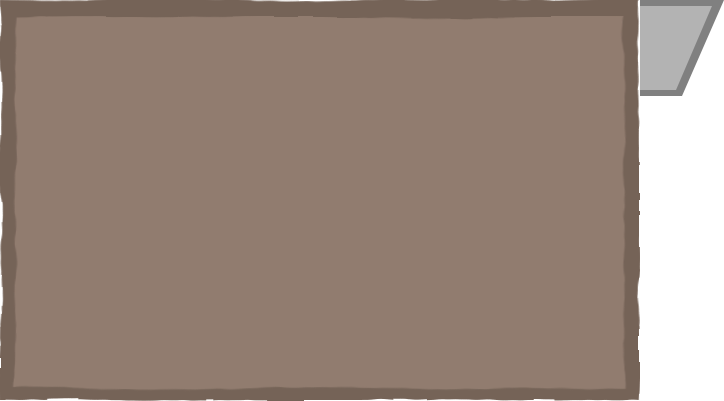
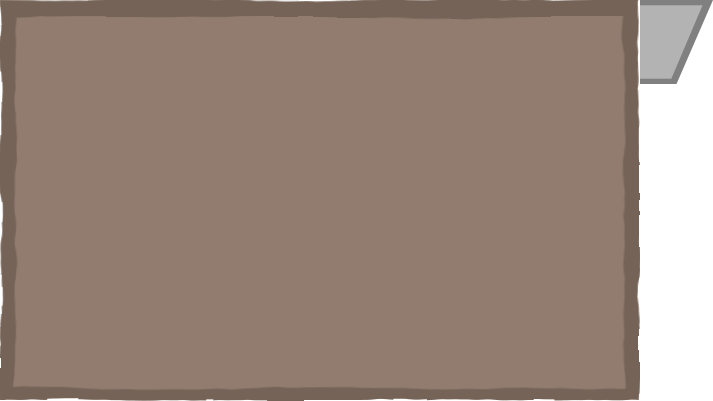
Put the tower background into a component which replaces info text box
This is a general use ui component that is a background for information
on the ui. It can be stretched horozontally, but not vertically. This is
to ensure the angle of the slope does not change.

diff --git a/client/js/components/game/towerMenu.js b/client/js/components/game/towerMenu.js
@@ -1,4 +1,4 @@
-import { BaseToolbarComponent } from "./base/baseToolbarComponent.js"
+import { UIComponentBackground1 } from "../ui_common/uiComponentBackground1.js"
 import { getPositionWithinEquallySpacedObjects } from "../../tools.js"
 import { getUserID } from "../../state.js"
 import { BaseComponent } from "./base/baseComponent.js"
@@ -21,25 +21,8 @@ export class TowerMenu extends BaseComponent {
         this.x_menu = x_menu
         this.y_menu = y_menu //- 15 - 70
 
-        let baseTexture = PIXI.Loader.shared.resources["client/assets/infoBoxes/infoBoxes.json"].textures["slanted_infobox_greyscale_1.png"]
-        let infoTextBox = new PIXI.NineSlicePlane(baseTexture, 1, 0, 64, 0)
-        infoTextBox.width = this.width_menu_px - 500
-        infoTextBox.height = this.height_menu_px
-        infoTextBox.y = y_menu
-        infoTextBox.x = x_menu
-        infoTextBox.tint = "0xFFEEBB"
-
-        let shadowTextBox = new PIXI.NineSlicePlane(baseTexture, 1, 0, 64, 0)
-        shadowTextBox.width = infoTextBox.width 
-        shadowTextBox.height = infoTextBox.height
-        shadowTextBox.y = infoTextBox.y + 5
-        shadowTextBox.x = infoTextBox.x
-        shadowTextBox.tint = "0x000000"
-        shadowTextBox.alpha = 0.8
-
-        this.addChild(shadowTextBox)
-        this.addChild(infoTextBox)
-
+        this.menuBackground = new UIComponentBackground1("towerMenuBackground", x_menu, y_menu - 10,  this.width_menu_px - 500, "0xFFEEBB")
+        this.addChild(this.menuBackground)
 
         // The icons that mark the positions of the towers. They cannot be interacted with and do not move.
         this.icons = new PIXI.Container()
@@ -70,7 +53,7 @@ export class TowerMenu extends BaseComponent {
             let icon = new MenuIconTower(towerType, towerType + "_icon", this.towerJson)
 
             let x = getPositionWithinEquallySpacedObjects(numTowers, Object.keys(this.towerJson).length, icon.width, this.width_px)
-            let y = this.y_menu + this.height_menu_px/2
+            let y = this.menuBackground.y + this.menuBackground.height / 2
 
             icon.x = x
             icon.y = y

diff --git a/client/js/components/ui_common/uiComponentBackground1.js b/client/js/components/ui_common/uiComponentBackground1.js
@@ -1,0 +1,31 @@
+import { BaseComponent } from "../game/base/baseComponent.js"
+
+// This componenet is a horizontal box, with a shere of the top edge in the positive x direction
+// It is designed to be placed at the side of the screen
+// It can be stretched horizontally only, to avoid changing the angle of the slope
+export class UIComponentBackground1 extends BaseComponent {
+    constructor (name, x, y, width_px, tint) {
+        super(name)
+        this.x = x
+        this.y = y
+
+        let baseTexture = PIXI.Loader.shared.resources["client/assets/infoBoxes/infoBoxes.json"].textures["slanted_infobox_greyscale_1.png"]
+        let infoTextBox = new PIXI.NineSlicePlane(baseTexture, 1, 0, 64, 0)
+        infoTextBox.width = width_px
+        infoTextBox.tint = tint
+
+        let shadowTextBox = new PIXI.NineSlicePlane(baseTexture, 1, 0, 64, 0)
+        shadowTextBox.width = infoTextBox.width + 2
+        shadowTextBox.height = infoTextBox.height
+        shadowTextBox.y = infoTextBox.y + 5
+        shadowTextBox.tint = "0x000000"
+        shadowTextBox.alpha = 0.7
+
+        this.addChild(shadowTextBox)
+        this.addChild(infoTextBox)
+    }
+
+    updateText(newMessage) {
+        // TODO
+    }
+}
